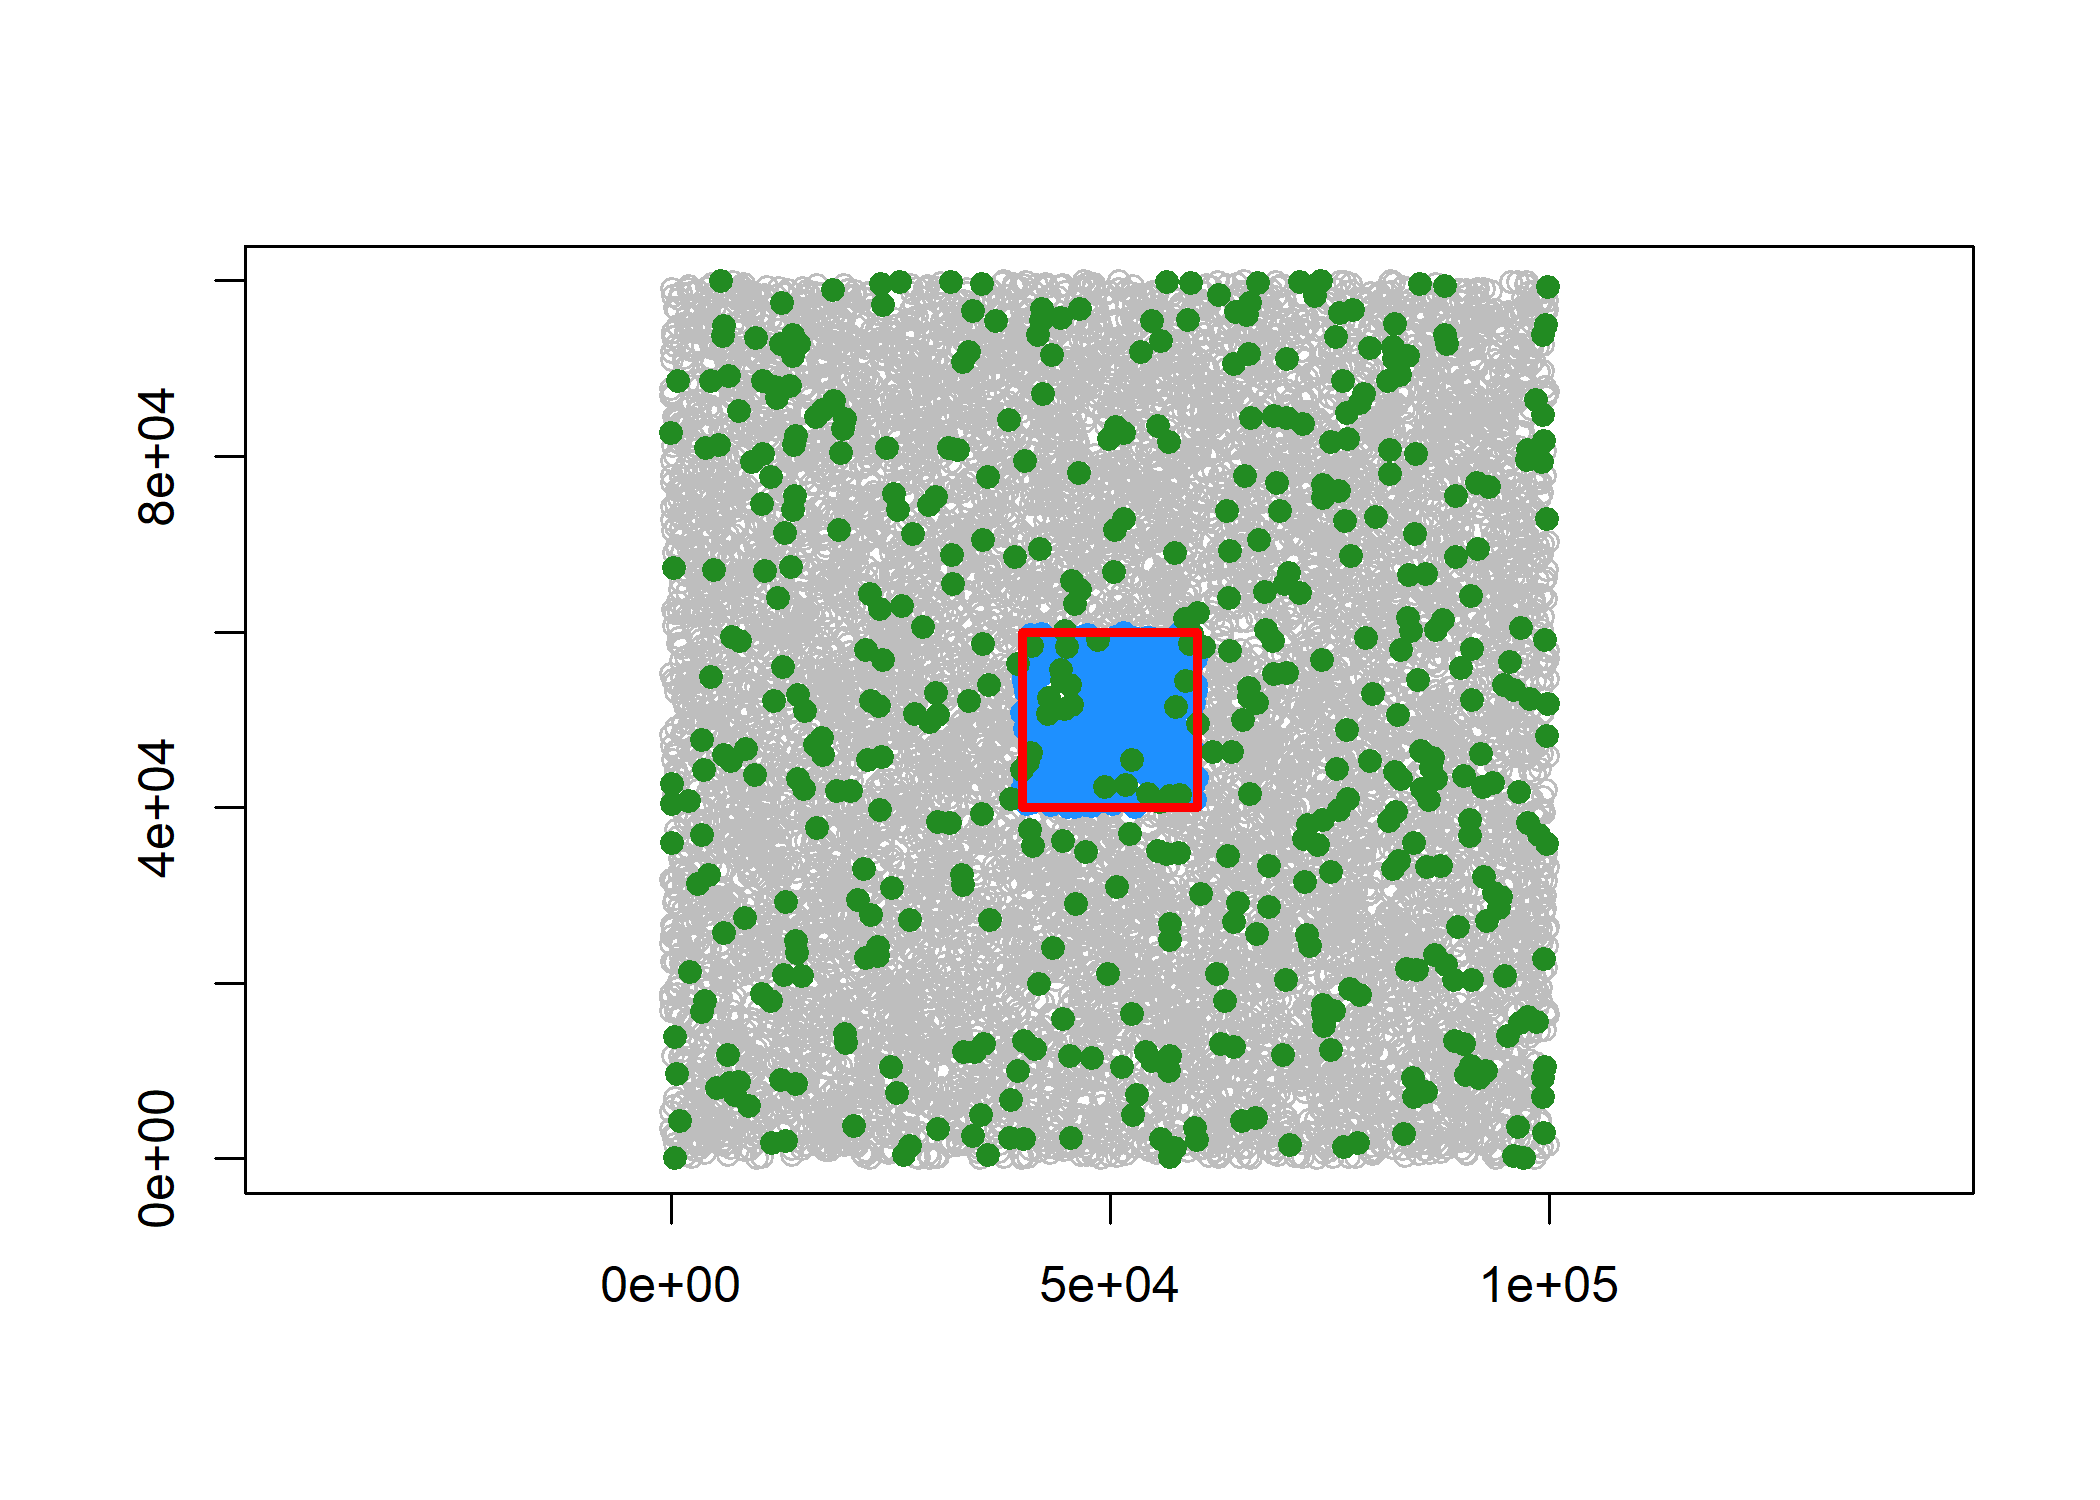
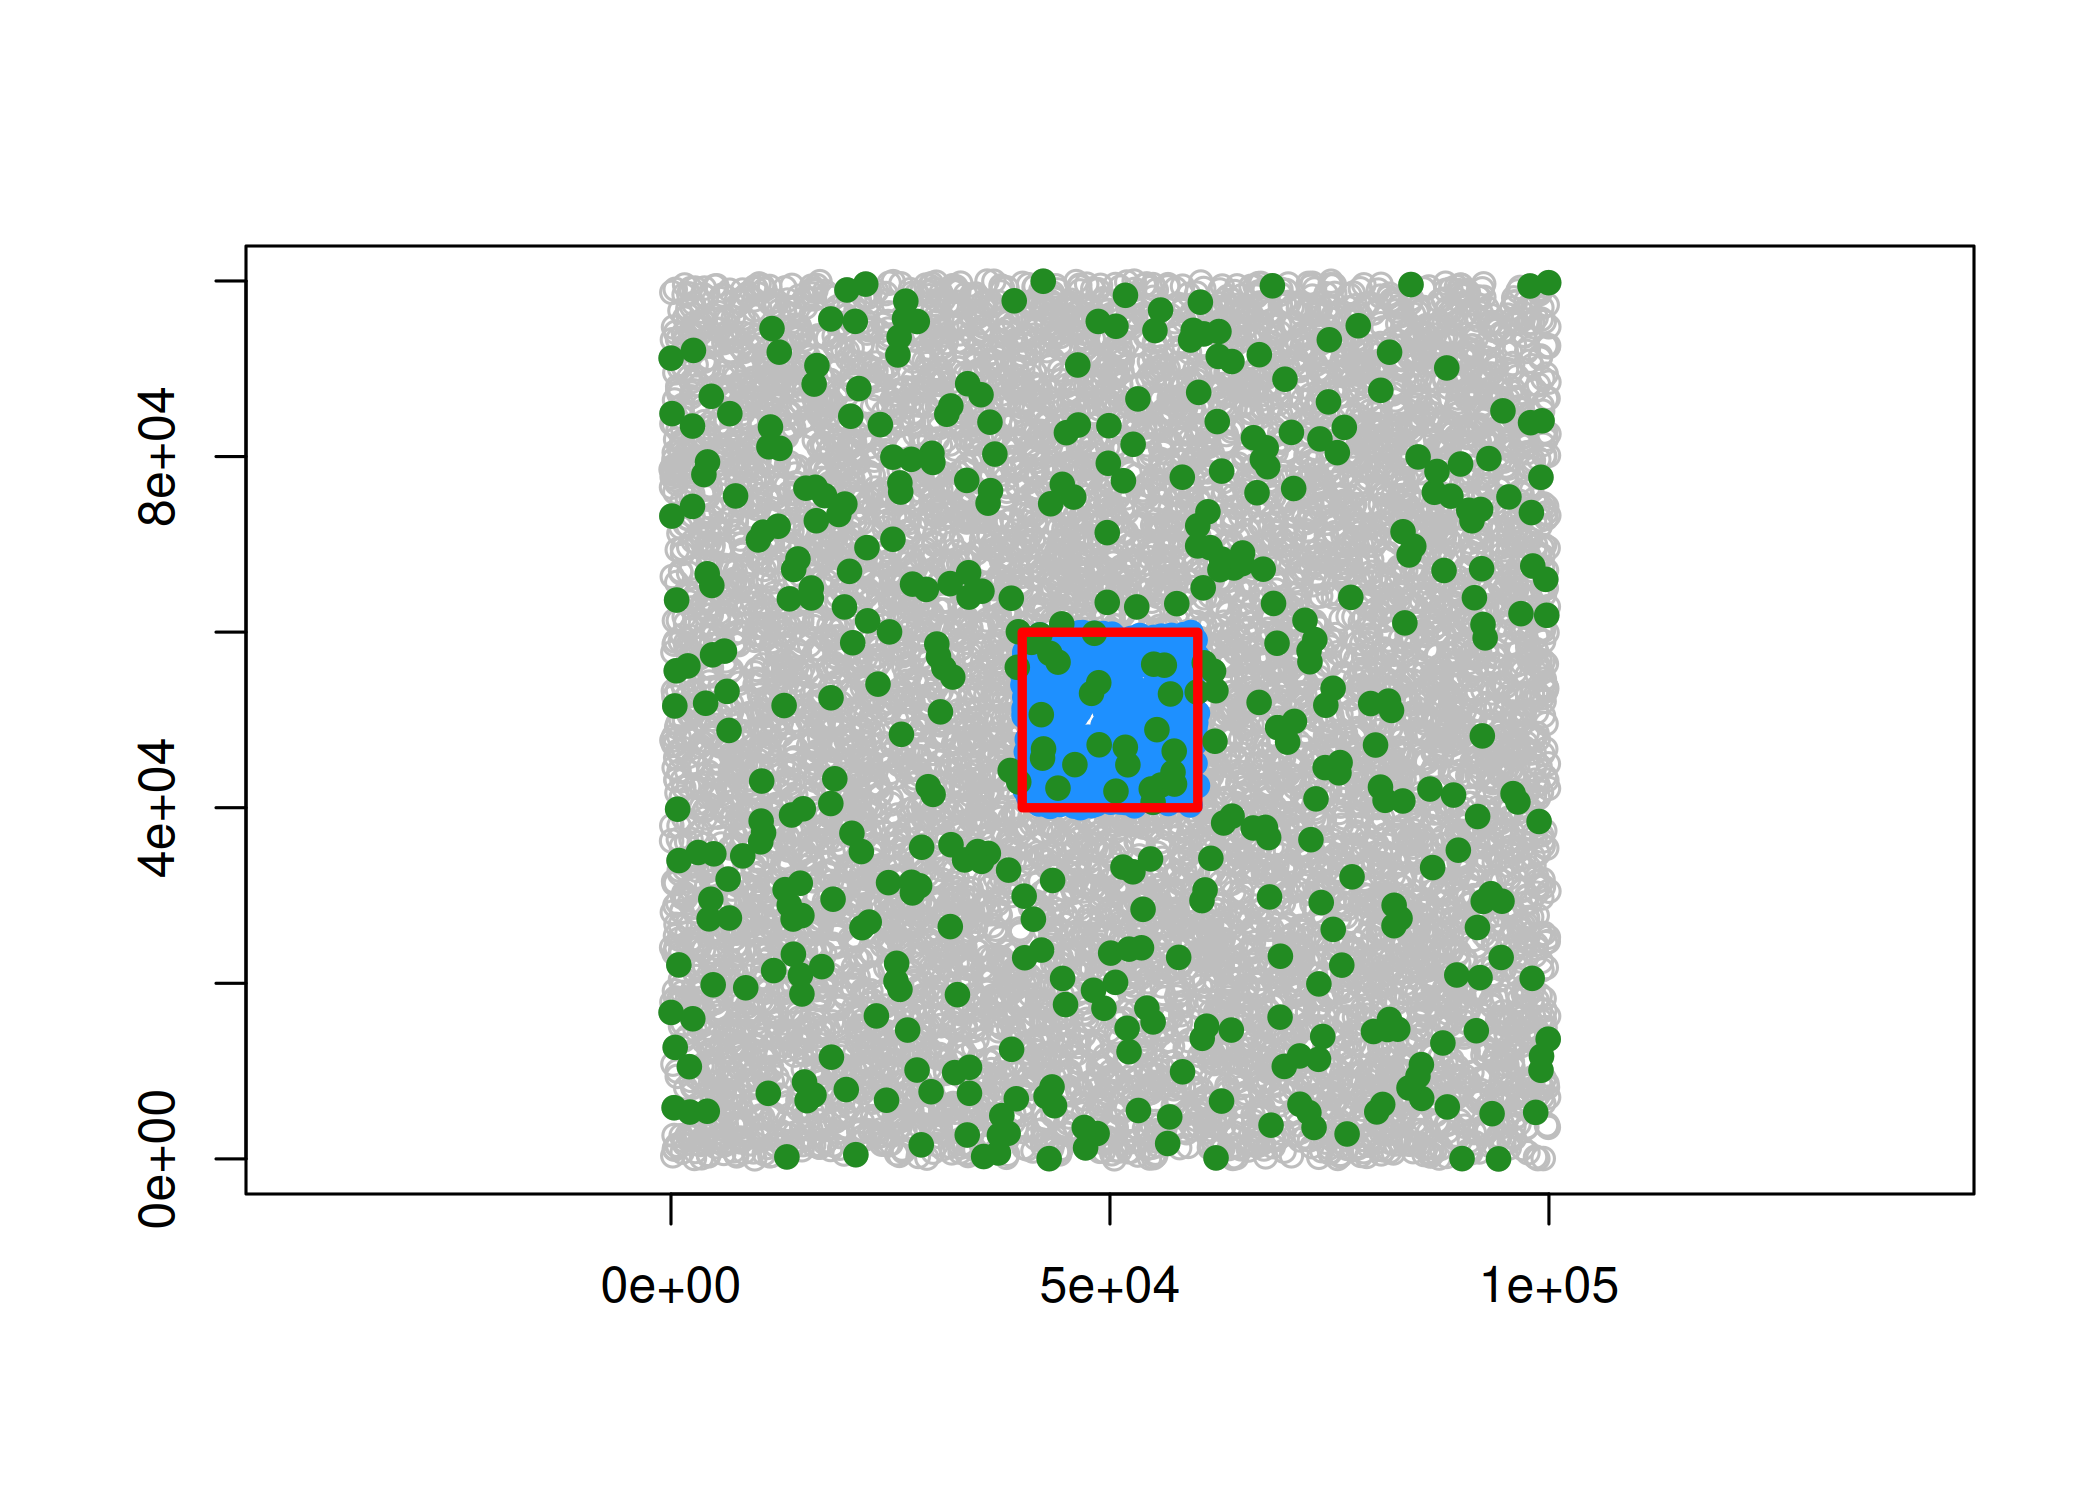
docs: update readme

diff --git a/README.md b/README.md
@@ -1,11 +1,19 @@
 
 <!-- README.md is generated from README.Rmd. Please edit that file -->
-
-# geosx
-
 <!-- badges: start -->
-
-[![R-CMD-check](https://github.com/atsyplenkov/geosx/actions/workflows/R-CMD-check.yaml/badge.svg)](https://github.com/atsyplenkov/geosx/actions/workflows/R-CMD-check.yaml)
+<h1>
+<code>geosx</code>
+</h1>
+<p align="center">
+<a href="https://github.com/atsyplenkov/geosx/releases">
+<img src="https://img.shields.io/github/v/release/atsyplenkov/geosx?style=flat&labelColor=1C2C2E&color=198ce7&logo=GitHub&logoColor=white"></a>
+<!-- <a href="https://cran.r-project.org/package=geosx">
+        <img src="https://img.shields.io/cran/v/geosx?style=flat&labelColor=1C2C2E&color=198ce7&logo=R&logoColor=white"></a> -->
+<a href="https://app.codecov.io/gh/atsyplenkov/geosx">
+<img src="https://img.shields.io/codecov/c/gh/atsyplenkov/geosx?style=flat&labelColor=1C2C2E&color=256bc0&logo=Codecov&logoColor=white"></a>
+<a href="https://github.com/atsyplenkov/geosx/actions/workflows/check-r-pkg.yaml">
+<img src="https://img.shields.io/github/actions/workflow/status/atsyplenkov/geosx/check-r-pkg.yaml?style=flat&labelColor=1C2C2E&color=256bc0&logo=GitHub%20Actions&logoColor=white"></a>
+</p>
 <!-- badges: end -->
 
 The `geosx` package provides a collection of common tools for vector
@@ -15,8 +23,8 @@ experimental and opinionated library, with a focus on performance,
 simplicity and lightweightness. I originally put this package together
 for my own projects, collecting handy functions I kept reusing.
 
-> [!NOTE]
-> This package is still in development and API is subject to change.
+> \[!NOTE\] This package is still in development and API is subject to
+> change.
 
 ## Installation
 
@@ -60,17 +68,18 @@ plot(pts_standalone, add = TRUE, col = "forestgreen", pch = 19)
 plot(grid[13], add = TRUE, border = "red", lwd = 3)
 ```
 
-<img src="man/figures/README-example-1.png" width="100%" />
+<img src="man/figures/README-example-1.png" alt="" width="100%" />
 
 The `geos_str_intersection` function acts similarly to the
 `geos::geos_intersect` (and `sf::st_intersection`), but is slightly
 faster for multiple polygons. However, one may not find significant
-speed gain in single polygon cases.
+speed gain in single polygon cases due to additional type checking going
+under the hood in `geosx`.
 
 ``` r
 library(bench)
 library(sf)
-#> Linking to GEOS 3.13.1, GDAL 3.10.2, PROJ 9.5.1; sf_use_s2() is TRUE
+#> Linking to GEOS 3.12.1, GDAL 3.8.4, PROJ 9.4.0; sf_use_s2() is TRUE
 
 pts_sf <- sf::st_as_sfc(pts)
 grid_sf <- sf::st_as_sfc(grid)
@@ -86,9 +95,9 @@ bench::mark(
 #> # A tibble: 3 × 6
 #>   expression      min   median `itr/sec` mem_alloc `gc/sec`
 #>   <bch:expr> <bch:tm> <bch:tm>     <dbl> <bch:byt>    <dbl>
-#> 1 geosx        1.18ms   1.29ms     766.      177KB      0  
-#> 2 geos        478.6µs  505.2µs    1915.      247KB      0  
-#> 3 sf          21.77ms  22.93ms      43.4     880KB     65.0
+#> 1 geosx        1.62ms   1.99ms     496.      176KB    17.1 
+#> 2 geos        779.7µs 894.79µs    1065.      247KB     0   
+#> 3 sf          47.42ms  59.91ms      16.7     880KB     8.37
 
 # Multiple polygons
 bench::mark(
@@ -101,7 +110,24 @@ bench::mark(
 #> # A tibble: 3 × 6
 #>   expression      min   median `itr/sec` mem_alloc `gc/sec`
 #>   <bch:expr> <bch:tm> <bch:tm>     <dbl> <bch:byt>    <dbl>
-#> 1 geosx        1.37ms   1.57ms     609.      220KB     0   
-#> 2 geos        14.46ms  14.87ms      66.5     285KB     2.29
-#> 3 sf          22.18ms  25.39ms      39.3     435KB    78.5
+#> 1 geosx        2.03ms   3.14ms     316.      218KB      0  
+#> 2 geos        27.09ms  31.35ms      29.8     285KB      0  
+#> 3 sf          45.53ms  63.41ms      16.7     435KB     11.1
+```
+
+And my favourite tool is the `geos_clip` function, which clips a
+geometry to a polygon.
+
+``` r
+bench::mark(
+  geosx = geos_clip(pts, grid[13]),
+  sf = sf::st_intersection(pts_sf, grid_sf[13]),
+  iterations = 30L,
+  check = FALSE
+)
+#> # A tibble: 2 × 6
+#>   expression      min   median `itr/sec` mem_alloc `gc/sec`
+#>   <bch:expr> <bch:tm> <bch:tm>     <dbl> <bch:byt>    <dbl>
+#> 1 geosx        2.34ms   2.96ms     325.      207KB     0   
+#> 2 sf          17.98ms  20.81ms      47.8     167KB     5.31
 ```